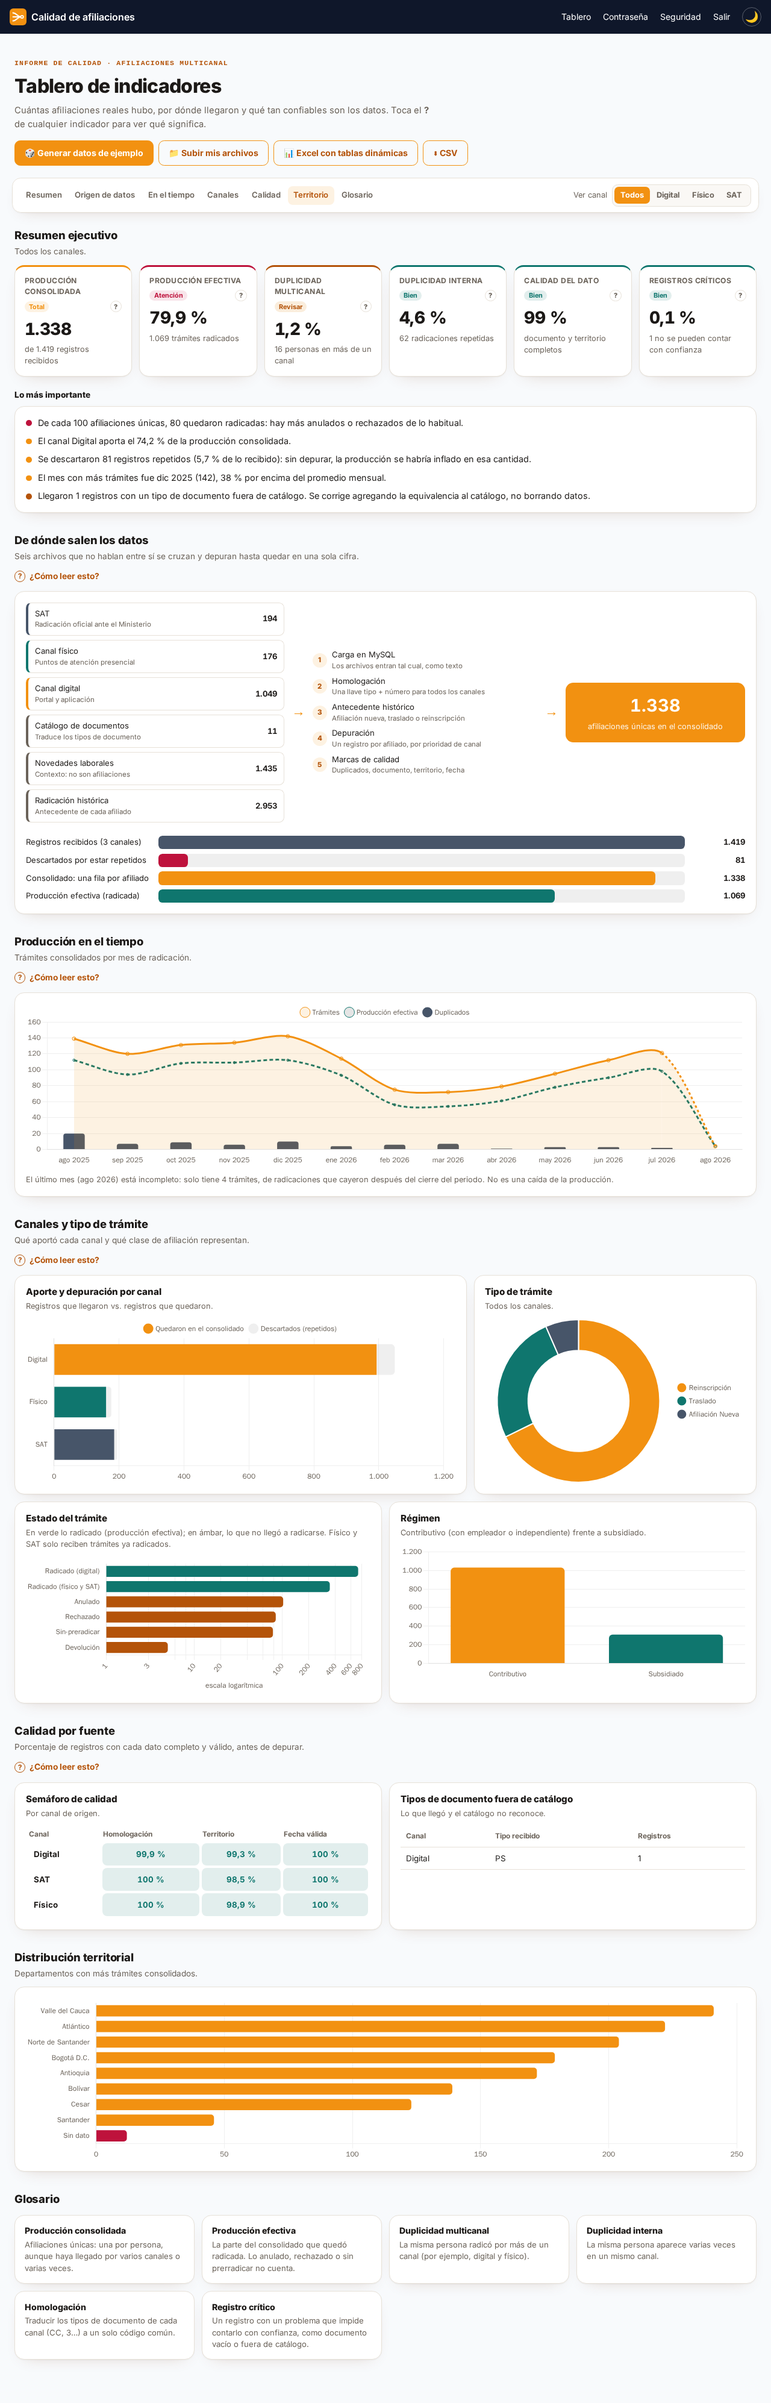
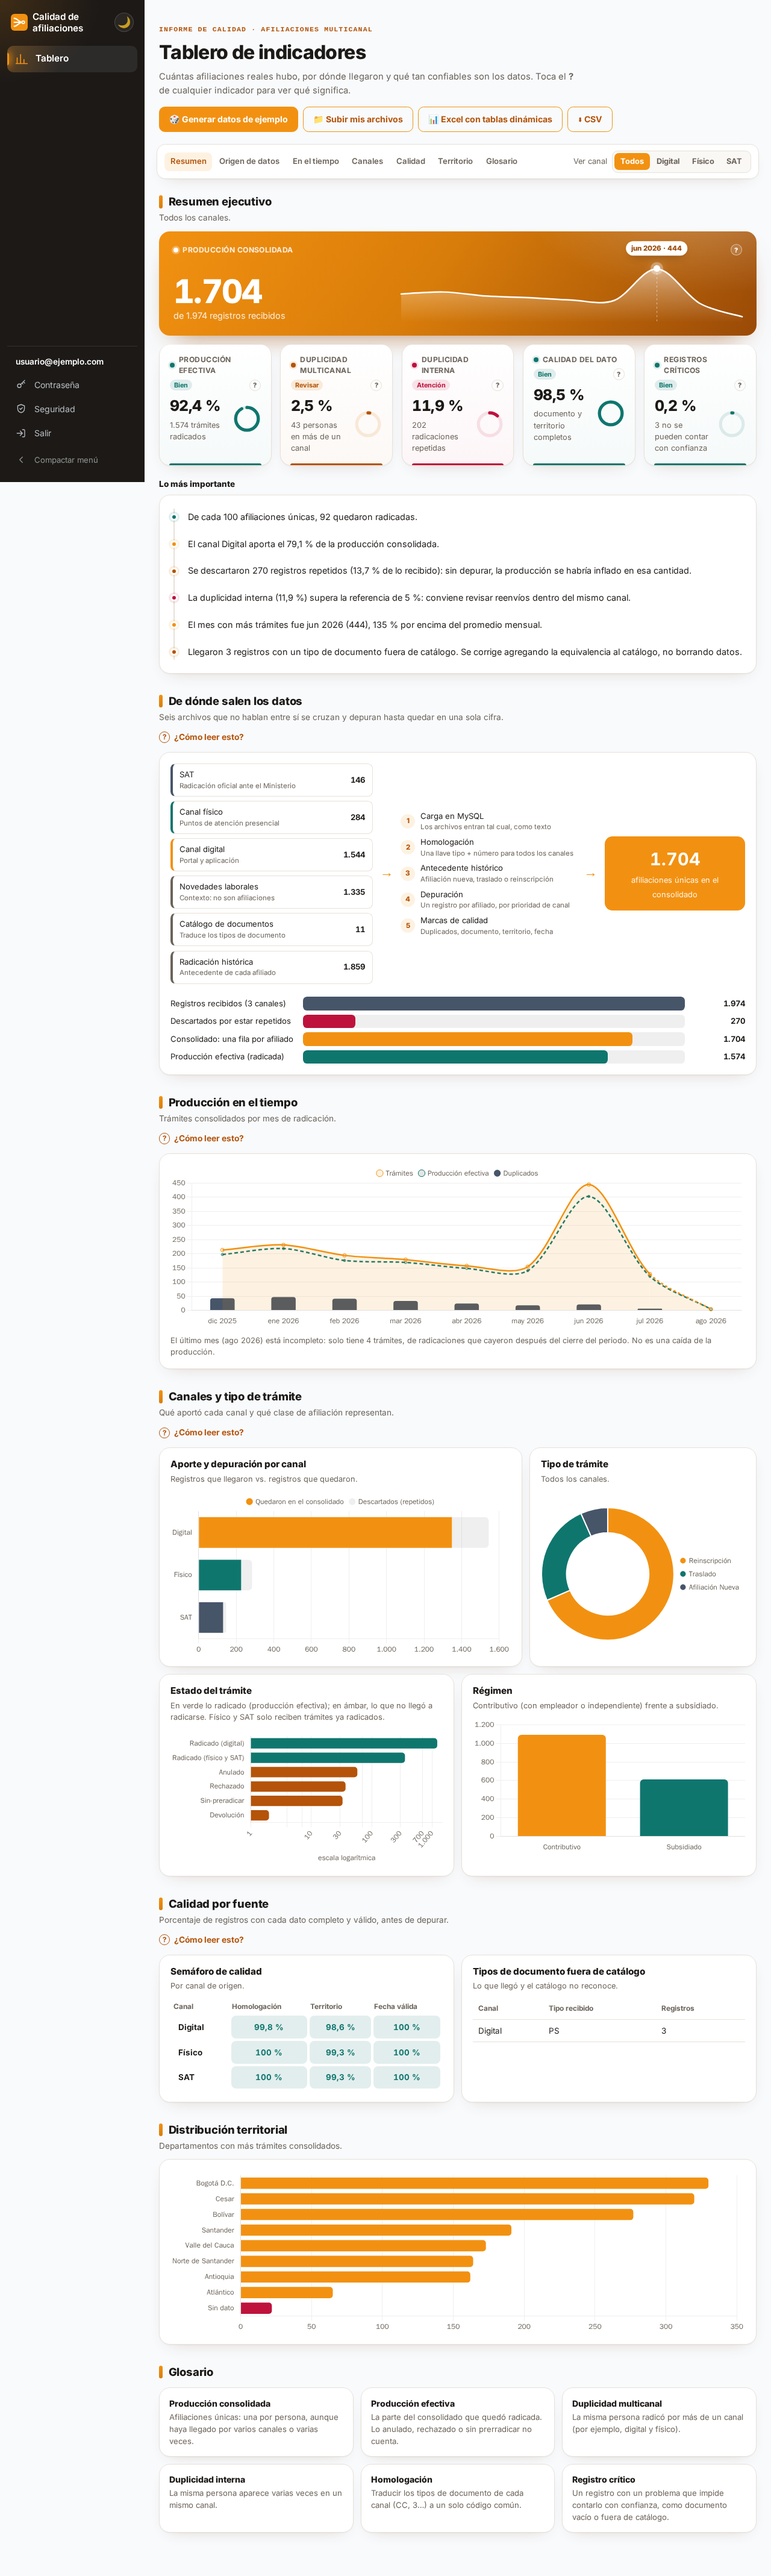
docs(manual): tablero estilo Helios, menú lateral y compacto, tablet y celular, seis casillas, instalación, sin conexión y 404 [skip ci]

diff --git a/docs/MANUAL.md b/docs/MANUAL.md
@@ -159,7 +159,11 @@ Confirma el método escribiendo el primer código. En cada ingreso siguiente apa
 | 2 | Verificar | Abre tu tablero |
 | 3 | Perdí mi autenticador | Si ya no tienes la app, entra con un código enviado a tu correo (ver 4.3.4) |
 
-Desde **Seguridad** (barra superior) puedes
+El código se escribe en **seis casillas**, una por dígito: puedes teclearlo o pegarlo completo.
+Un candado sobre el título se abre al enviar el código completo y se sacude si no es válido; con la
+app autenticadora, un anillo muestra cuántos segundos faltan para que la app cambie de código.
+
+Desde **Seguridad** (menú lateral) puedes
 **agregar el método que no elegiste** y escoger cuál se pide **por defecto**; tener los dos te
 permite entrar aunque no tengas el teléfono a mano.
 
@@ -187,6 +191,21 @@ bloqueada unos minutos.
 | 2 | 📁 Subir mis archivos | Abre el formulario para cargar tus propios archivos (ver 3.5) |
 | 3 | 📊 Excel con tablas dinámicas | Descarga un libro con tu consolidado, medidas DAX y tablas dinámicas listas (ver 3.7) |
 | 4 | ⬇ CSV | Descarga `consolidado.csv`, un archivo plano sin medidas ni tablas dinámicas |
+
+**Menú lateral.** A la izquierda están **Tablero** y, al pie, tu correo, **Contraseña**,
+**Seguridad** y **Salir**; una luz naranja marca la sección actual. **Compactar menú** lo reduce a
+solo íconos (al pasar el cursor aparece el nombre de cada uno) y la preferencia se recuerda en ese
+equipo.
+
+![Menú lateral compacto con el nombre de la opción al pasar el cursor](img/manual/08-menu-compacto.png)
+
+**En la tablet en vertical y en el celular** el menú se convierte en una **barra inferior**
+translúcida (Tablero, Seguridad y **Más**, que abre una hoja desde abajo con Contraseña y Salir).
+El tablero se reacomoda solo al girar la pantalla.
+
+![Tablero en una tablet en vertical](img/manual/09-tablet-vertical.png)
+
+![Tablero en el celular con la hoja Más abierta](img/manual/10-movil-mas.png)
 
 **Cada generación es distinta.** Además de cambiar las personas, cada clic sortea un *escenario*:
 cuánto aporta cada canal, el periodo (de 8 a 18 meses), la duplicidad, los rechazos y la calidad de
@@ -221,8 +240,8 @@ tendencia, el tipo de trámite, el estado, el régimen y el territorio, sin reca
 
 | Sección | Qué responde |
 |---|---|
-| Resumen ejecutivo | Seis indicadores con semáforo (verde, ámbar o rojo): producción consolidada, producción efectiva, duplicidad multicanal e interna, calidad del dato y registros críticos. El botón **?** de cada uno explica qué mide y cuál es la referencia |
-| Lo más importante | Hallazgos escritos en frases sencillas: qué canal pesa más, cuánto se descartó, el mes pico, la fuente con más problemas |
+| Resumen ejecutivo | Arriba, la **tarjeta principal** con la producción consolidada y una curva de los trámites por mes que marca el mes pico. Debajo, cinco indicadores con semáforo (verde, ámbar o rojo) y un anillo que muestra el porcentaje: producción efectiva, duplicidad multicanal e interna, calidad del dato y registros críticos. El botón **?** de cada uno explica qué mide y cuál es la referencia |
+| Lo más importante | Hallazgos escritos en frases sencillas, en una línea de tiempo con un punto del color de su estado: qué canal pesa más, cuánto se descartó, el mes pico, la fuente con más problemas |
 | De dónde salen los datos | Los seis archivos de origen con sus filas, los pasos del proceso y el embudo: recibidos → descartados por repetidos → consolidado → producción efectiva |
 | Producción en el tiempo | Trámites, producción efectiva y duplicados por mes. Si el último mes está incompleto, el tablero lo avisa |
 | Canales y tipo de trámite | Aporte y depuración por canal, reinscripción/traslado/afiliación nueva, estado del trámite y régimen |
@@ -252,7 +271,23 @@ propios análisis: **Insertar → Tabla dinámica → Desde el modelo de datos**
 ### 4.8 Preguntas frecuentes
 
 **¿Por qué a veces aparece "En mantenimiento"?** La base se apaga sin uso para no generar costos
-y tarda unos minutos en volver a encenderse. Espera un momento y vuelve a entrar.
+y tarda unos minutos en volver a encenderse. La pantalla reintenta sola cada minuto (un anillo
+muestra los segundos que faltan), hasta cinco veces; después puedes pulsar **Reintentar**.
+
+**¿Puedo instalarlo como aplicación?** Sí. En Chrome o Edge usa **Instalar aplicación** (ícono
+en la barra de direcciones o menú ⋮); en el iPhone, en Safari, **Compartir → Agregar a inicio**. Se
+abre en su propia ventana y entra directo al tablero.
+
+**¿Qué pasa si me quedo sin internet?** Aparece la pantalla **Sin conexión**, que reintenta sola
+cada pocos segundos (o con **Reintentar ahora**) y vuelve a la página cuando hay red.
+
+![Pantalla sin conexión con reintento automático](img/manual/12-sin-conexion.png)
+
+**Abrí un enlace y dice "Esta afiliación no está en el reporte".** La dirección no existe (un enlace
+viejo o mal copiado). Usa **Ver el tablero** o **Volver al inicio**; si tenías la sesión abierta,
+sigue abierta.
+
+![Página no encontrada](img/manual/11-no-encontrada.png)
 
 **¿Otra persona puede ver mis datos?** No. Cada cuenta ve solo lo que generó o subió.
 
